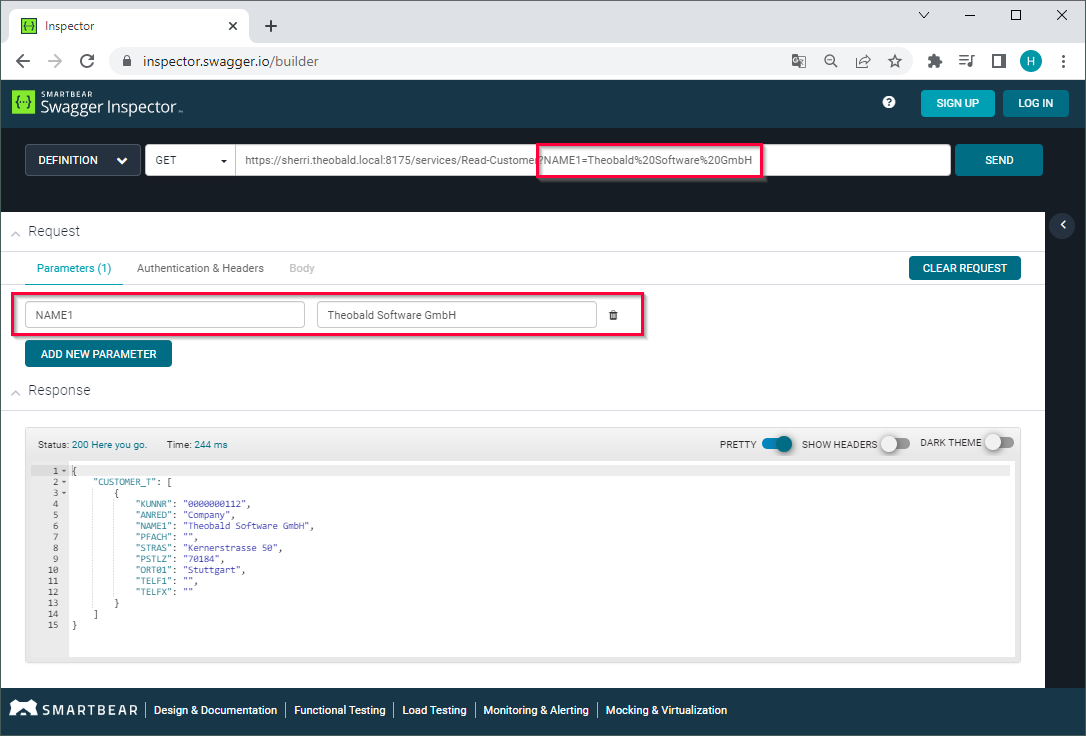
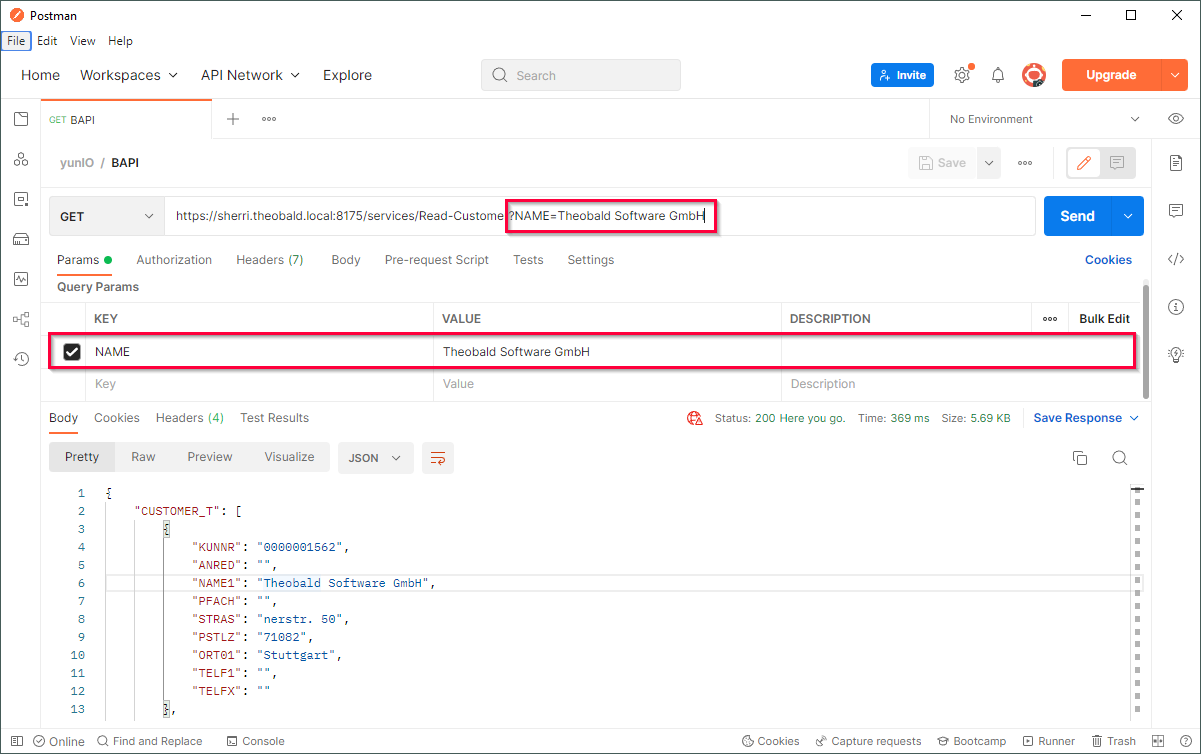
updated screenshot

diff --git a/includes/components/tables/where-clause-syntax.md b/includes/components/tables/where-clause-syntax.md
@@ -16,11 +16,12 @@ The WHERE clause text mode allows you to directly enter a WHERE clauses. {% if p
 
 #### Syntax Rules
 
-| Rule | :white_check_mark: Correct | :x: Wrong |
+
+| Rule | Correct | Wrong |
 |--------|--------|--------|
-| Enter a space before and after the equal sign |  *YEAR = '1999'* | *YEAR= '1999 '*, *YEAR ='1999'* or *YEAR='1999'*|
-| Set floating point numbers in single quotation mark | *KMENG > '10.3'* |  *KMENG > 10.3*|
-| Values must have the internal SAP representation:<br> :material-subdirectory-arrow-right: Date: YYYYMMDD <br> :material-subdirectory-arrow-right: Year Period: YYYYPPP <br> :material-subdirectory-arrow-right: Numbers with leading zeroes, e.g., customer numbers| <br> 19990101 <br> 1999001 <br> 0000001000 | <br> 01.01.1999 <br> 001.1999 <br> 1000|
+| Enter a space before and after the equal sign |  :white_check_mark: *YEAR = '1999'* | :x: *YEAR= '1999 '*, *YEAR ='1999'* or *YEAR='1999'*|
+| Set floating point numbers in single quotation mark | :white_check_mark: *KMENG > '10.3'* |  :x: *KMENG > 10.3*|
+| Values must have the internal SAP representation:<br> :material-subdirectory-arrow-right: Date: YYYYMMDD <br> :material-subdirectory-arrow-right: Year Period: YYYYPPP <br> :material-subdirectory-arrow-right: Numbers with leading zeroes, e.g., customer numbers| <br> :white_check_mark: 19990101 <br> :white_check_mark: 1999001 <br> :white_check_mark: 0000001000 | <br> :x: 01.01.1999 <br> :x: 001.1999 <br> :x: 1000|
 
 
 !!! note

diff --git a/projects/yunio/docs/documentation/run-services.md b/projects/yunio/docs/documentation/run-services.md
@@ -62,13 +62,13 @@ yunIO supports the http methods `POST` and `GET`, see [POST vs GET](#post-vs-get
 === "POST"
 
 	Parameters are listed in the request body of a service.
-	Edit the request body to assign values to the parameters. The depicted example uses an input parameter *NAME1*:<br>
+	Edit the request body to assign values to the parameters. The depicted example uses an input parameter *NAME*:<br>
 	![yunIO-HTTP-POST](../assets/images/yunio/http-post.png){:class="img-responsive" }
 
 === "GET"
 
 	Parameters are available as query parameters in the service URL. 
-	Use query parameters to assign values or add the values directly in the service URL. The depicted example uses an input parameter *NAME1*:<br>
+	Use query parameters to assign values or add the values directly in the service URL. The depicted example uses an input parameter *NAME*:<br>
 	![yunIO-HTTP-GET](../assets/images/yunio/http-get.png){:class="img-responsive" }
 
 !!! note

diff --git a/projects/yunio/docs/documentation/function-modules-and-bapis/create-a-bapi-service.md b/projects/yunio/docs/documentation/function-modules-and-bapis/create-a-bapi-service.md
@@ -34,9 +34,9 @@ The necessary parameters of a {{ bapi }} service vary depending on the BAPI.
 ### Parameterize Import Parameters
 
 Import parameters can be parameterized in the request body of the service.
+The depicted example shows the request body of a service where the Import Parameter *NAME* is set to *Supplied by Caller*.
 
-Example: The Import Parameter *MAXROWS* of BAPI_CUSTOMER_GETLIST is set to *Supplied by Caller* and can be parameterized in the request body of the service:<br>
-![BAPI export parameters](../../assets/images/yunio/swagger-inspector-parameter.png){:class="img-responsive"}
+![BAPI import parameters](../../assets/images/yunio/postman-input-bapi.png){:class="img-responsive"}
 
 !!! note
     When parameterzing the import parameters of the service, make sure the input matches the data type of the parameters.<br>

diff --git a/projects/yunio/docs/documentation/transactions/transactions.md b/projects/yunio/docs/documentation/transactions/transactions.md
@@ -46,9 +46,9 @@ All fields that can be parameterized are highlighted in green when hovering over
 7. Click **[OK]** to confirm your input.
 8. Click **[Save]** to save your changes.
 
-Input parameters are now accessible in the request body of the service.<br>
-Ouput parameters are now accessible in the response body of the service.<br>
-![transaction-copy-download](../../assets/images/yunio/transaction-swagger-inspector.png){:class="img-responsive"}
+Input parameters are now accessible in the request body of the service :number-1:.<br>
+Ouput parameters are now accessible in the response body of the service :number-2:.<br>
+![transaction-copy-download](../../assets/images/yunio/postman-input-transaction.png){:class="img-responsive"}
 
 
 ****

diff --git a/projects/yunio/docs/documentation/tables-and-views/where-clause.md b/projects/yunio/docs/documentation/tables-and-views/where-clause.md
@@ -14,7 +14,7 @@ Enter WHERE clauses manually in *Text mode* or use the [WHERE Clause Editor](#wh
 
 The WHERE clause can be parameterized in the request body of the service. 
 
-![WHERE-Clause in SwaggerHub](../../assets/images/yunio/swagger-inspector.png){:class="img-responsive"}
+![WHERE-Clause in Postman](../../assets/images/yunio/postman-input.png){:class="img-responsive"}
 
 For more information on parameterizing services, see [Passing Parameters](../run-services.md/#pass-parameters).
 
